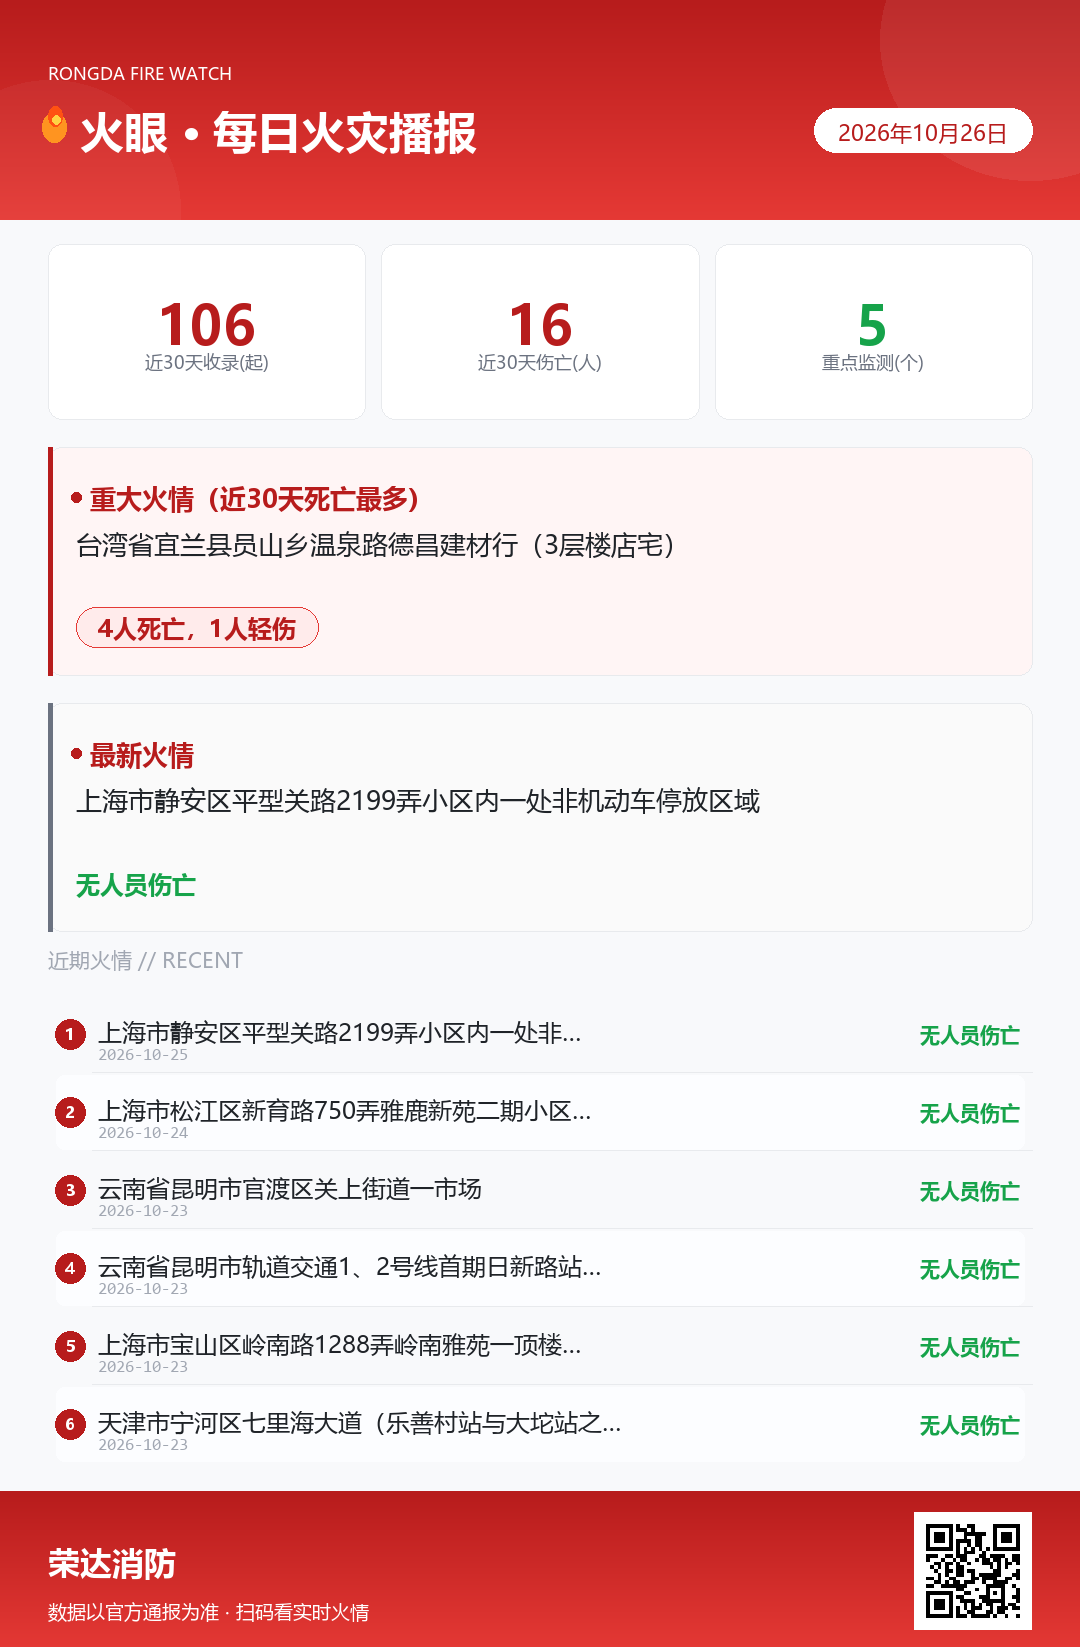
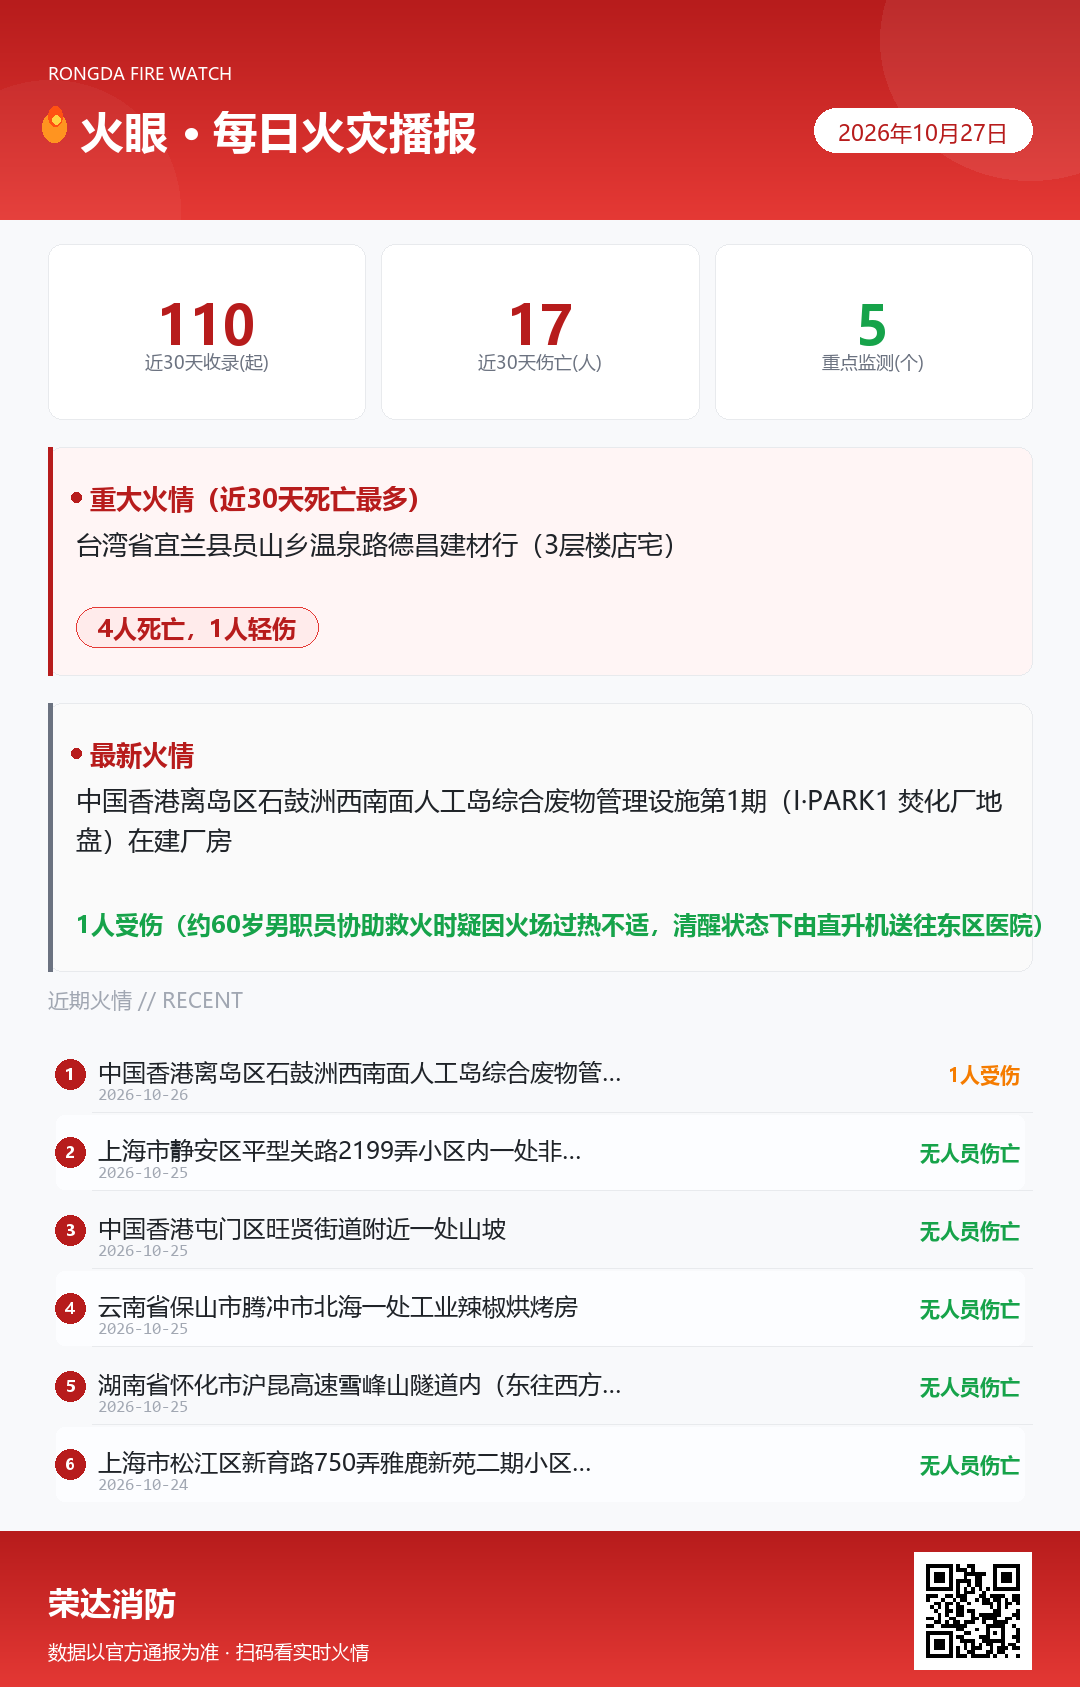
fire-daily-brief 2026-10-27 06:57 roll

diff --git a/index.html b/index.html
@@ -435,15 +435,15 @@
 <!-- ============ DATA（每日自动更新：由自动化脚本重写此对象） ============ -->
 <script id="brief-data" type="application/json">
 {
-  "date": "2026年10月26日",
-  "compileTime": "2026-10-26 07:29",
+  "date": "2026年10月27日",
+  "compileTime": "2026-10-27 07:05",
   "source": "AI 联网检索 · 各地消防救援机构官方通报及权威媒体转载",
   "range": "滚动更新 · 近 30 天",
   "stats": {
     "noReportRegions": 5,
     "rangeLabel": "近30天"
   },
-  "jiangxi": "有官方通报（7·12 南昌居民楼楼道电动车「飞线充电」火情、7·29 上饶玉山县居民楼液化气罐泄漏爆炸1死1伤、8·2 赣州南康工业园工厂刨花房起火、8·2 南昌某小区7楼阳台烟头引燃杂物起火（无伤亡）、8·4 吉安民房柴房火灾、8·6 萍乡一小轿车停放家门口起火（无伤亡）、8·13 吉安市赣江上一船只起火（疑因电池，无伤亡）、8·12 赣州大余花生麸自燃、8·16 南昌小区杂物间起火、8·18 南昌青云谱「网红」麻将馆自动麻将机电气线路故障起火（无伤亡、8·30 宜春经开区江西远东电池电芯老化检测车间火灾（无人员伤亡，1个厂房设备部分受损）、8·28 南昌一餐厅后厨起火（消防自动喷淋系统及时启动扑灭，无人员伤亡）、8·28 吉安市泰和县一民房（祭祀用火不慎，过火约90平方米，无人员伤亡）、9·3 赣州南康区一工厂刨花房突然起火（无人员伤亡，园区微型消防站与员工协力扑救，约5分钟消防到场扑灭）、9·10 萍乡市芦溪县银河镇某村牛棚火灾（疑烟头引燃，无伤亡）、9·10 莲花县坊楼镇某村茶厂操作间起火（用火不当，无伤亡）、9·11 萍乡市开发区福田镇某村居民柴房起火（用火不慎，无伤亡）、9·12 宜春丰城市河洲街道太阳社区杨打垅村一民房火灾（造成3人死亡、1人受伤，宜春市政府已成立“9·12”较大火灾事故调查组）、9·17 南昌市青山湖区顺外路一辆半挂货车起火（凌晨4时40分左右，车上装载硬纸类易燃物，消防到场约半小时扑灭，无人员伤亡）、9·27 赣州大余县南安镇一民房火灾（楼道堆放杂物致2人被困，架拉梯救出，无人员伤亡）、10·8 九江市一处草纸批发店仓库火灾（违规电焊焊渣引燃堆放草纸，无伤亡，过火近300㎡）、10·10 南昌市青山湖区东华大道428号一厂区室外独立电动车停车棚起火（无人员伤亡）、10·15 江西某小区一6楼民房客厅起火（一家4口被困，退回主卧关门堵缝避险，全部获救，无伤亡）、10·15 鹰潭市一商铺二楼起火（无人员伤亡，消防到场出水降温排烟））",
+  "jiangxi": "有官方通报（7·12 南昌居民楼楼道电动车「飞线充电」火情、7·29 上饶玉山县居民楼液化气罐泄漏爆炸1死1伤、8·2 赣州南康工业园工厂刨花房起火、8·2 南昌某小区7楼阳台烟头引燃杂物起火（无伤亡）、8·4 吉安民房柴房火灾、8·6 萍乡一小轿车停放家门口起火（无伤亡）、8·13 吉安市赣江上一船只起火（疑因电池，无伤亡）、8·12 赣州大余花生麸自燃、8·16 南昌小区杂物间起火、8·18 南昌青云谱「网红」麻将馆自动麻将机电气线路故障起火（无伤亡、8·30 宜春经开区江西远东电池电芯老化检测车间火灾（无人员伤亡，1个厂房设备部分受损）、8·28 南昌一餐厅后厨起火（消防自动喷淋系统及时启动扑灭，无人员伤亡）、8·28 吉安市泰和县一民房（祭祀用火不慎，过火约90平方米，无人员伤亡）、9·3 赣州南康区一工厂刨花房突然起火（无人员伤亡，园区微型消防站与员工协力扑救，约5分钟消防到场扑灭）、9·10 萍乡市芦溪县银河镇某村牛棚火灾（疑烟头引燃，无伤亡）、9·10 莲花县坊楼镇某村茶厂操作间起火（用火不当，无伤亡）、9·11 萍乡市开发区福田镇某村居民柴房起火（用火不慎，无伤亡）、9·12 宜春丰城市河洲街道太阳社区杨打垅村一民房火灾（造成3人死亡、1人受伤，宜春市政府已成立“9·12”较大火灾事故调查组）、9·17 南昌市青山湖区顺外路一辆半挂货车起火（凌晨4时40分左右，车上装载硬纸类易燃物，消防到场约半小时扑灭，无人员伤亡）、9·27 赣州大余县南安镇一民房火灾（楼道堆放杂物致2人被困，架拉梯救出，无人员伤亡）、10·8 九江市一处草纸批发店仓库火灾（违规电焊焊渣引燃堆放草纸，无伤亡，过火近300㎡）、10·10 南昌市青山湖区东华大道428号一厂区室外独立电动车停车棚起火（无人员伤亡）、10·15 江西某小区一6楼民房客厅起火（一家4口被困，退回主卧关门堵缝避险，全部获救，无伤亡）、10·15 鹰潭市一商铺二楼起火（无人员伤亡，消防到场出水降温排烟）、10·18 鹰潭市一自建民房旁厨房起火（村民烧柴火做饭中途离开、柴火无人看管，厨房被烧毁，无人员伤亡））",
   "megacities": [
     {
       "name": "北京市",
@@ -463,15 +463,22 @@
     }
   ],
   "case": {
-    "date": "2026-10-25",
-    "location": "上海市静安区平型关路2199弄小区内一处非机动车停放区域",
-    "category": "其他",
-    "summary": "10月25日下午4时27分许，静安区平型关路2199弄小区内的非机动车停车区域突然冒出火光，多位市民发现后立即拨打报警电话。消防部门接报后迅速出动，很快将明火扑灭。现场共有6辆电动自行车被烧毁，未造成人员伤亡。目前，具体起火原因及财产损失鉴定工作仍在进一步开展中。相关部门提醒居民规范停放和充电，避免私拉乱接电线、长时间过充。",
-    "casualty": "无人员伤亡",
-    "cause": "具体起火原因及财产损失鉴定仍在进一步开展中",
-    "src": "新民晚报/上观新闻（2026-10-25 报道）"
+    "date": "2026-10-26",
+    "location": "中国香港离岛区石鼓洲西南面人工岛综合废物管理设施第1期（I·PARK1 焚化厂地盘）在建厂房",
+    "category": "工厂/车间",
+    "summary": "10月26日中午12时43分，香港消防处接报石鼓洲旁人工岛综合废物管理设施第1期发生火警，现场浓烟席卷半空。消防到场开喉灌救，下午1时24分火警升为三级，共动用5条喉及5队烟帽队扑救。涉事建筑为一幢14层高、仍在施工的厂房，内部存放建筑材料，初步相信由天台首先起火并向低层蔓延。下午3时47分火势受包围、4时18分受控，至4时45分大致救熄，焚烧约4小时。岛上约930名工人自行疏散，承办商安排多艘船只将其中800余人分别撤至长洲及荃湾公众码头。",
+    "casualty": "1人受伤（约60岁男职员协助救火时疑因火场过热不适，清醒状态下由直升机送往东区医院）",
+    "cause": "火警原因仍在调查中；初步相信起火建筑内存放建筑材料，事发时顶层位置首先起火并蔓延至下层",
+    "src": "香港特区政府新闻公报 + 南方+／南方新闻网、香港01（2026-10-26）"
   },
-  "tips": ["住宅近30天火情占三成，电气与降温取暖是主因：吉林梅河口10·20实验中学电暖器起火、浙江嘉兴10·15一住户老旧电视插头九年未拔疑线路老化、绍兴10·15冰箱故障引燃。降温期取暖设备专插专用人离即断，老旧插排和长期通电插头赶紧换，私拉乱接一律整改。","电动自行车和电池入户充电是反复致命隐患：广州10·10自建房屋主室内违规充电被行拘、广州10·07出租屋蓄电池室内热失控、北京10·05充电柜锂电池热失控。电池到集中充电点充、不过夜，鼓包发烫立即停用，严禁进楼入户、进电梯。","随身充电宝/锂电池成新隐患：昆明10·23、南宁10·22地铁车厢接连发生乘客充电宝自燃，上海徐汇10·14一老旧居民楼充电宝未充电也电芯故障热失控。公共交通勿带破损鼓包充电宝，发热异味立即远离人群并报告；居家充电宝远离床铺沙发等易燃物。","交通枢纽近30天火情激增到17起，多为行驶中突发：云南保山10·21货车轮毂高温致轮胎自燃、嘉兴10·15快递货车刹车卡钳摩擦过热、阜阳10·18半挂发动机线路磨损短路。长途前查轮胎、油路、电路，车上配灭火器，不超载、不拉易燃易爆品。","用火不慎仍是住宅与餐饮首位诱因：常州10·12烧烤店燃气点火瞬间爆燃、攀枝花10·11老人遗留烟蒂阴燃引燃沙发、南京10·12与中山10·06高空烟头接连引燃棉被和楼道杂物。厨房用火不离人、用完关阀；卧床楼道不吸烟；祭祀香烛明火不离人、远离可燃物。","工厂车间与仓储物流近30天约13起，多为动火与易燃堆垛：九江10·08草纸批发仓库违规电焊、焊渣引燃草纸（电焊工无证上岗）、安顺10·13种植大棚官方指出用火用电隐患突出。动火喷涂先审批、清场、专人监护并配灭火器；易燃物隔离堆垛、保持通道畅通。"],
+  "tips": [
+    "住宅近30天火情占三成，电气与降温取暖是主因：吉林梅河口10·20实验中学电暖器起火、浙江嘉兴10·15一住户老旧电视插头九年未拔疑线路老化、绍兴10·15冰箱故障引燃。降温期取暖设备专插专用人离即断，老旧插排和长期通电插头赶紧换，私拉乱接一律整改。",
+    "电动自行车和电池入户充电是反复致命隐患：广州10·10自建房屋主室内违规充电被行拘、广州10·07出租屋蓄电池室内热失控、北京10·05充电柜锂电池热失控。电池到集中充电点充、不过夜，鼓包发烫立即停用，严禁进楼入户、进电梯。",
+    "随身充电宝/锂电池成新隐患：昆明10·23、南宁10·22地铁车厢接连发生乘客充电宝自燃，上海徐汇10·14一老旧居民楼充电宝未充电也电芯故障热失控。公共交通勿带破损鼓包充电宝，发热异味立即远离人群并报告；居家充电宝远离床铺沙发等易燃物。",
+    "交通枢纽近30天火情激增到17起，多为行驶中突发：云南保山10·21货车轮毂高温致轮胎自燃、嘉兴10·15快递货车刹车卡钳摩擦过热、阜阳10·18半挂发动机线路磨损短路。长途前查轮胎、油路、电路，车上配灭火器，不超载、不拉易燃易爆品。",
+    "用火不慎仍是住宅与餐饮首位诱因：常州10·12烧烤店燃气点火瞬间爆燃、攀枝花10·11老人遗留烟蒂阴燃引燃沙发、南京10·12与中山10·06高空烟头接连引燃棉被和楼道杂物。厨房用火不离人、用完关阀；卧床楼道不吸烟；祭祀香烛明火不离人、远离可燃物。",
+    "工厂车间与仓储物流近30天约13起，多为动火与易燃堆垛：九江10·08草纸批发仓库违规电焊、焊渣引燃草纸（电焊工无证上岗）、安顺10·13种植大棚官方指出用火用电隐患突出。动火喷涂先审批、清场、专人监护并配灭火器；易燃物隔离堆垛、保持通道畅通。"
+  ],
   "notes": [
     "本页数据由 AI 联网检索聚合，仅收录有官方消防部门来源的通报，包括各地消防救援机构官方发布、政府应急管理部门通报，以及权威媒体（央视新闻、新华社、央广网、中新网等）转载的官方信息。",
     "不收录无明确官方来源的媒体报道或自媒体推测内容。",
@@ -482,6 +489,15 @@
   ],
   "history": [
     {
+      "date": "2026-10-26",
+      "location": "中国香港离岛区石鼓洲西南面人工岛综合废物管理设施第1期（I·PARK1 焚化厂地盘）在建厂房",
+      "category": "工厂/车间",
+      "summary": "10月26日中午12时43分，香港消防处接报石鼓洲旁人工岛综合废物管理设施第1期发生火警，现场浓烟席卷半空。消防到场开喉灌救，下午1时24分火警升为三级，共动用5条喉及5队烟帽队扑救。涉事建筑为一幢14层高、仍在施工的厂房，内部存放建筑材料，初步相信由天台首先起火并向低层蔓延。下午3时47分火势受包围、4时18分受控，至4时45分大致救熄，焚烧约4小时。岛上约930名工人自行疏散，承办商安排多艘船只将其中800余人分别撤至长洲及荃湾公众码头。",
+      "casualty": "1人受伤（约60岁男职员协助救火时疑因火场过热不适，清醒状态下由直升机送往东区医院）",
+      "cause": "火警原因仍在调查中；初步相信起火建筑内存放建筑材料，事发时顶层位置首先起火并蔓延至下层",
+      "src": "香港特区政府新闻公报 + 南方+／南方新闻网、香港01（2026-10-26）"
+    },
+    {
       "date": "2026-10-25",
       "location": "上海市静安区平型关路2199弄小区内一处非机动车停放区域",
       "category": "其他",
@@ -489,6 +505,33 @@
       "casualty": "无人员伤亡",
       "cause": "具体起火原因及财产损失鉴定仍在进一步开展中",
       "src": "新民晚报/上观新闻（2026-10-25 报道）"
+    },
+    {
+      "date": "2026-10-25",
+      "location": "中国香港屯门区旺贤街道附近一处山坡",
+      "category": "森林/野外",
+      "summary": "10月25日中午12时54分，香港消防处接报屯门旺贤街道附近一处山坡发生火情，现场山坡燃起熊熊火光，火线不断蔓延、浓烟四起飘至上空。消防处派出12辆消防车和60名消防人员参与扑救，政府飞行服务队直升机到场投掷水弹协助灭火，火情于当日18时28分大致被扑灭。经初步调查，火情因香烛明火蔓延至草丛导致。",
+      "casualty": "无人员伤亡（无需疏散）",
+      "cause": "经初步调查，香烛明火蔓延至草丛引燃山坡植被",
+      "src": "香港消防处回应南方都市报／N视频（2026-10-26）"
+    },
+    {
+      "date": "2026-10-25",
+      "location": "云南省保山市腾冲市北海一处工业辣椒烘烤房",
+      "category": "工厂/车间",
+      "summary": "10月25日凌晨4时许，腾冲市北海一处工业辣椒烘烤房发生火灾，烘烤中的工业辣椒被引燃，燃烧产生的浓烟与辛辣刺激性气味随风飘入腾冲城区，多名市民反映出现咳嗽、面部刺痛等不适，和顺古镇一带亦有明显气味。当地生态环境部门到场核实处置并开展空气监测，采取洒水等措施；市政府办表示火灾已迅速扑灭，并用隔离带对剩余物料封存，气味对人体无影响。",
+      "casualty": "无人员伤亡",
+      "cause": "厂房设备发生故障起火，引燃烘烤中的工业辣椒",
+      "src": "腾冲市消防救援局证实／海报新闻（大众网）、华商报大风新闻（2026-10-26）"
+    },
+    {
+      "date": "2026-10-25",
+      "location": "湖南省怀化市沪昆高速雪峰山隧道内（东往西方向）一辆半挂货车",
+      "category": "交通枢纽",
+      "summary": "10月25日凌晨2时许，沪昆高速怀化段东往西方向雪峰山隧道内发生一起半挂货车燃烧事故，隧道内滞留车辆31台。湖南高速交警、消防等部门迅速处置，第一时间疏散司乘人员约250人，并对该路段双向采取管制分流。当日9时05分，洞口往东入口已解除管制，江口入口及洞口往西方向管制解除时间待定，事故原因调查进行中。",
+      "casualty": "暂未发现人员伤亡（疏散司乘约250人，隧道内滞留车辆31台）",
+      "cause": "车辆燃烧原因正在调查中",
+      "src": "央视新闻／湖南省委宣传部（2026-10-25）"
     },
     {
       "date": "2026-10-24",
@@ -716,6 +759,15 @@
       "src": "阜阳市公安局交管支队高速五大队（新浪财经转载，2026-10-20）"
     },
     {
+      "date": "2026-10-18",
+      "location": "江西省鹰潭市一自建民房旁搭建的厨房",
+      "category": "住宅/民房",
+      "summary": "10月18日18时许，鹰潭一民房突发火情，起火点为自建民房旁搭建的厨房，主要燃烧物为木材。消防员到场后一支水枪在厨房外部直接扑救，另一支水枪在二楼阳台由上往下压制火势，成功将火扑灭。经了解，起火原因为村民烧柴火做饭时中途离开、柴火无人看管引发，整个厨房被烧毁。",
+      "casualty": "无人员伤亡",
+      "cause": "村民烧柴火做饭时中途离开，柴火无人看管引燃周边可燃物",
+      "src": "鹰潭消防（2026-10-26 发布）"
+    },
+    {
       "date": "2026-10-17",
       "location": "陕西省榆林市神木市一交叉路口（涉事车辆撞击交通灯立柱处）",
       "category": "交通枢纽",
@@ -750,6 +802,15 @@
       "casualty": "无人员受伤",
       "cause": "车辆右后轮胎行驶中起火冒烟",
       "src": "应城市人民政府门户网站（湖北交投京珠运营公司应城北党支部，2026-10-18）"
+    },
+    {
+      "date": "2026-10-17",
+      "location": "广东省揭阳市揭东区曲溪街道北环大道与车田大道交界一单层铁皮结构厂房内半开放式小仓库",
+      "category": "仓储/物流",
+      "summary": "10月17日07时58分，揭阳市消防救援支队接报揭东区曲溪街道北环大道与车田大道交界一仓库发生火灾，指挥中心随即调派新凤街消防救援站出动4辆消防车、18名消防员赴现场处置。经确认，起火建筑为单层铁皮结构厂房，起火位置位于厂房中间一个半开放式小仓库，主要燃烧物质为存放的塑料管等制品，到场时火势处于猛烈燃烧阶段、浓烟滚滚。灭火组架设水枪压制火势，警戒小组做好现场警戒防止次生事故，明火最终被成功扑灭。",
+      "casualty": "无人员伤亡",
+      "cause": "起火原因待查（官方通报未公布）",
+      "src": "揭阳消防（2026-10-26 发布）"
     },
     {
       "date": "2026-10-16",
